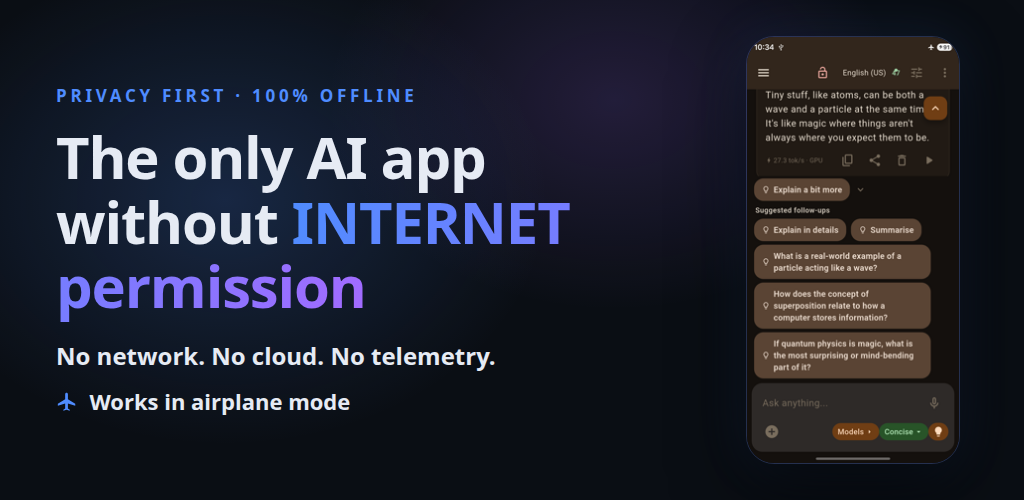
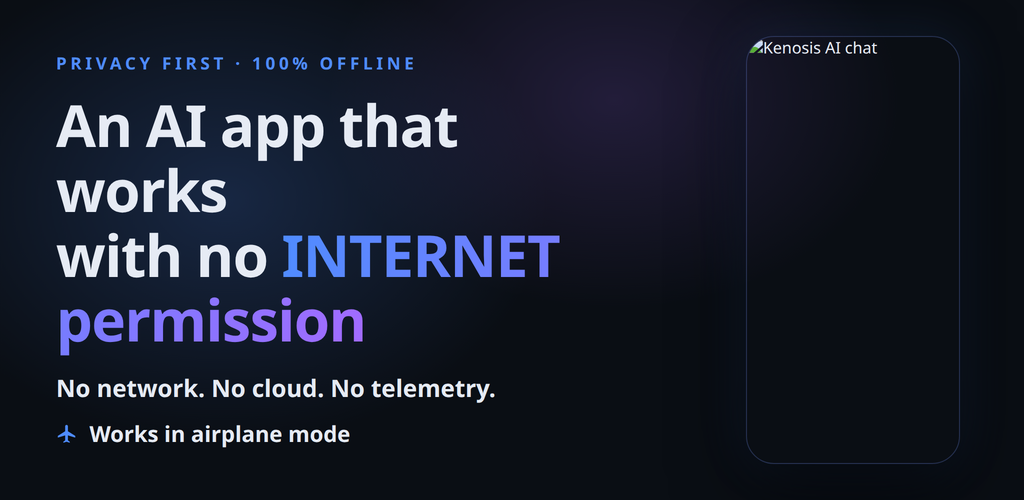
fix(store): scope the no-INTERNET claim on the feature graphic and first screenshot

diff --git a/playstore/feature-graphic.html b/playstore/feature-graphic.html
@@ -54,7 +54,7 @@
 <body>
   <div class="copy">
     <div class="eyebrow">Privacy first &middot; 100% offline</div>
-    <h1>The only AI app<br>without <span class="grad">INTERNET<br>permission</span></h1>
+    <h1>An AI app that works<br>with no <span class="grad">INTERNET<br>permission</span></h1>
     <div class="sub"><strong>No network. No cloud. No telemetry.</strong></div>
     <div class="plane"><svg class="sym" width="22" height="22" viewBox="0 0 24 24" fill="#4f8cff" style="vertical-align:-3px"><path d="M21,16V14L13,9V3.5C13,2.67 12.33,2 11.5,2C10.67,2 10,2.67 10,3.5V9L2,14V16L10,13.5V19L8,20.5V21.5L11.5,20.5L15,21.5V20.5L13,19V13.5L21,16Z"/></svg>&nbsp; Works in airplane mode</div>
   </div>

diff --git a/playstore/render.py b/playstore/render.py
@@ -22,7 +22,7 @@ SHOTS = [
     # Shot 1: pitch hero, headline + claim chips on the upper half,
     # three small phones stacked below (back to front).
     dict(shots="transcription.png,RAG02.png,chat-mock.png", fs="small",
-         t1="The only AI app without", t2="INTERNET permission",
+         t1="An AI app that works", t2="with no INTERNET permission",
          sub="**No network. No cloud. No telemetry.**",
          chips="✈ Airplane mode|✕ No ads|✕ No subscriptions|✕ No account"),
     dict(shot="transcription.png",
